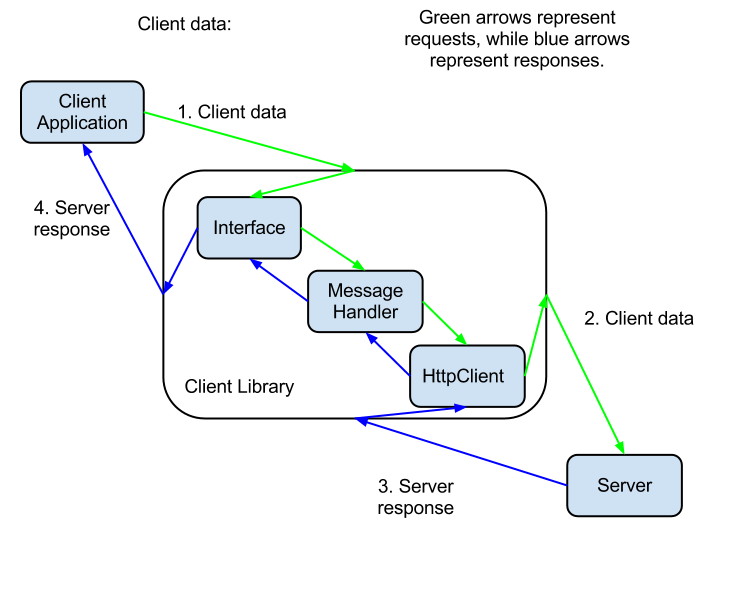
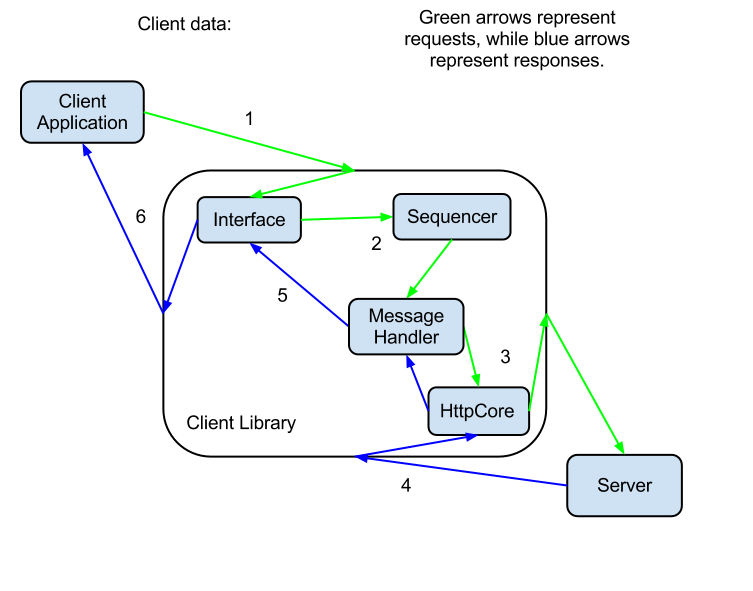
updates to client data flow

diff --git a/doc/final-report/Design-Client.tex b/doc/final-report/Design-Client.tex
@@ -150,9 +150,11 @@ A lightweight component for easily setting up and using HTTP connections. While 
 		\textbf{Client Data} (Visualized in Fig.\ref{fig:ClientDataFlowDiagram})
 		\begin{enumerate}
 			\item The client generates data and sends it to the library via API/Interface
-			\item The library does its magic, and sends the data to the  server
-			\item The server sends a response to the library
-			\item The library passes the response to the client
+			\item The data moves on to the sequencer and down to the message hander
+			\item The message handler tells httpCore to establish a connection to the server, and the data is sent
+			\item The server sends a reply that is picked up by httpCore and forwarded to the messageHandler
+			\item The interface is notified of the reply
+			\item The interface notifies the client that the reply is ready
 		\end{enumerate}
 		
 	\subsubsection{Architecture}\label{client architecture}
